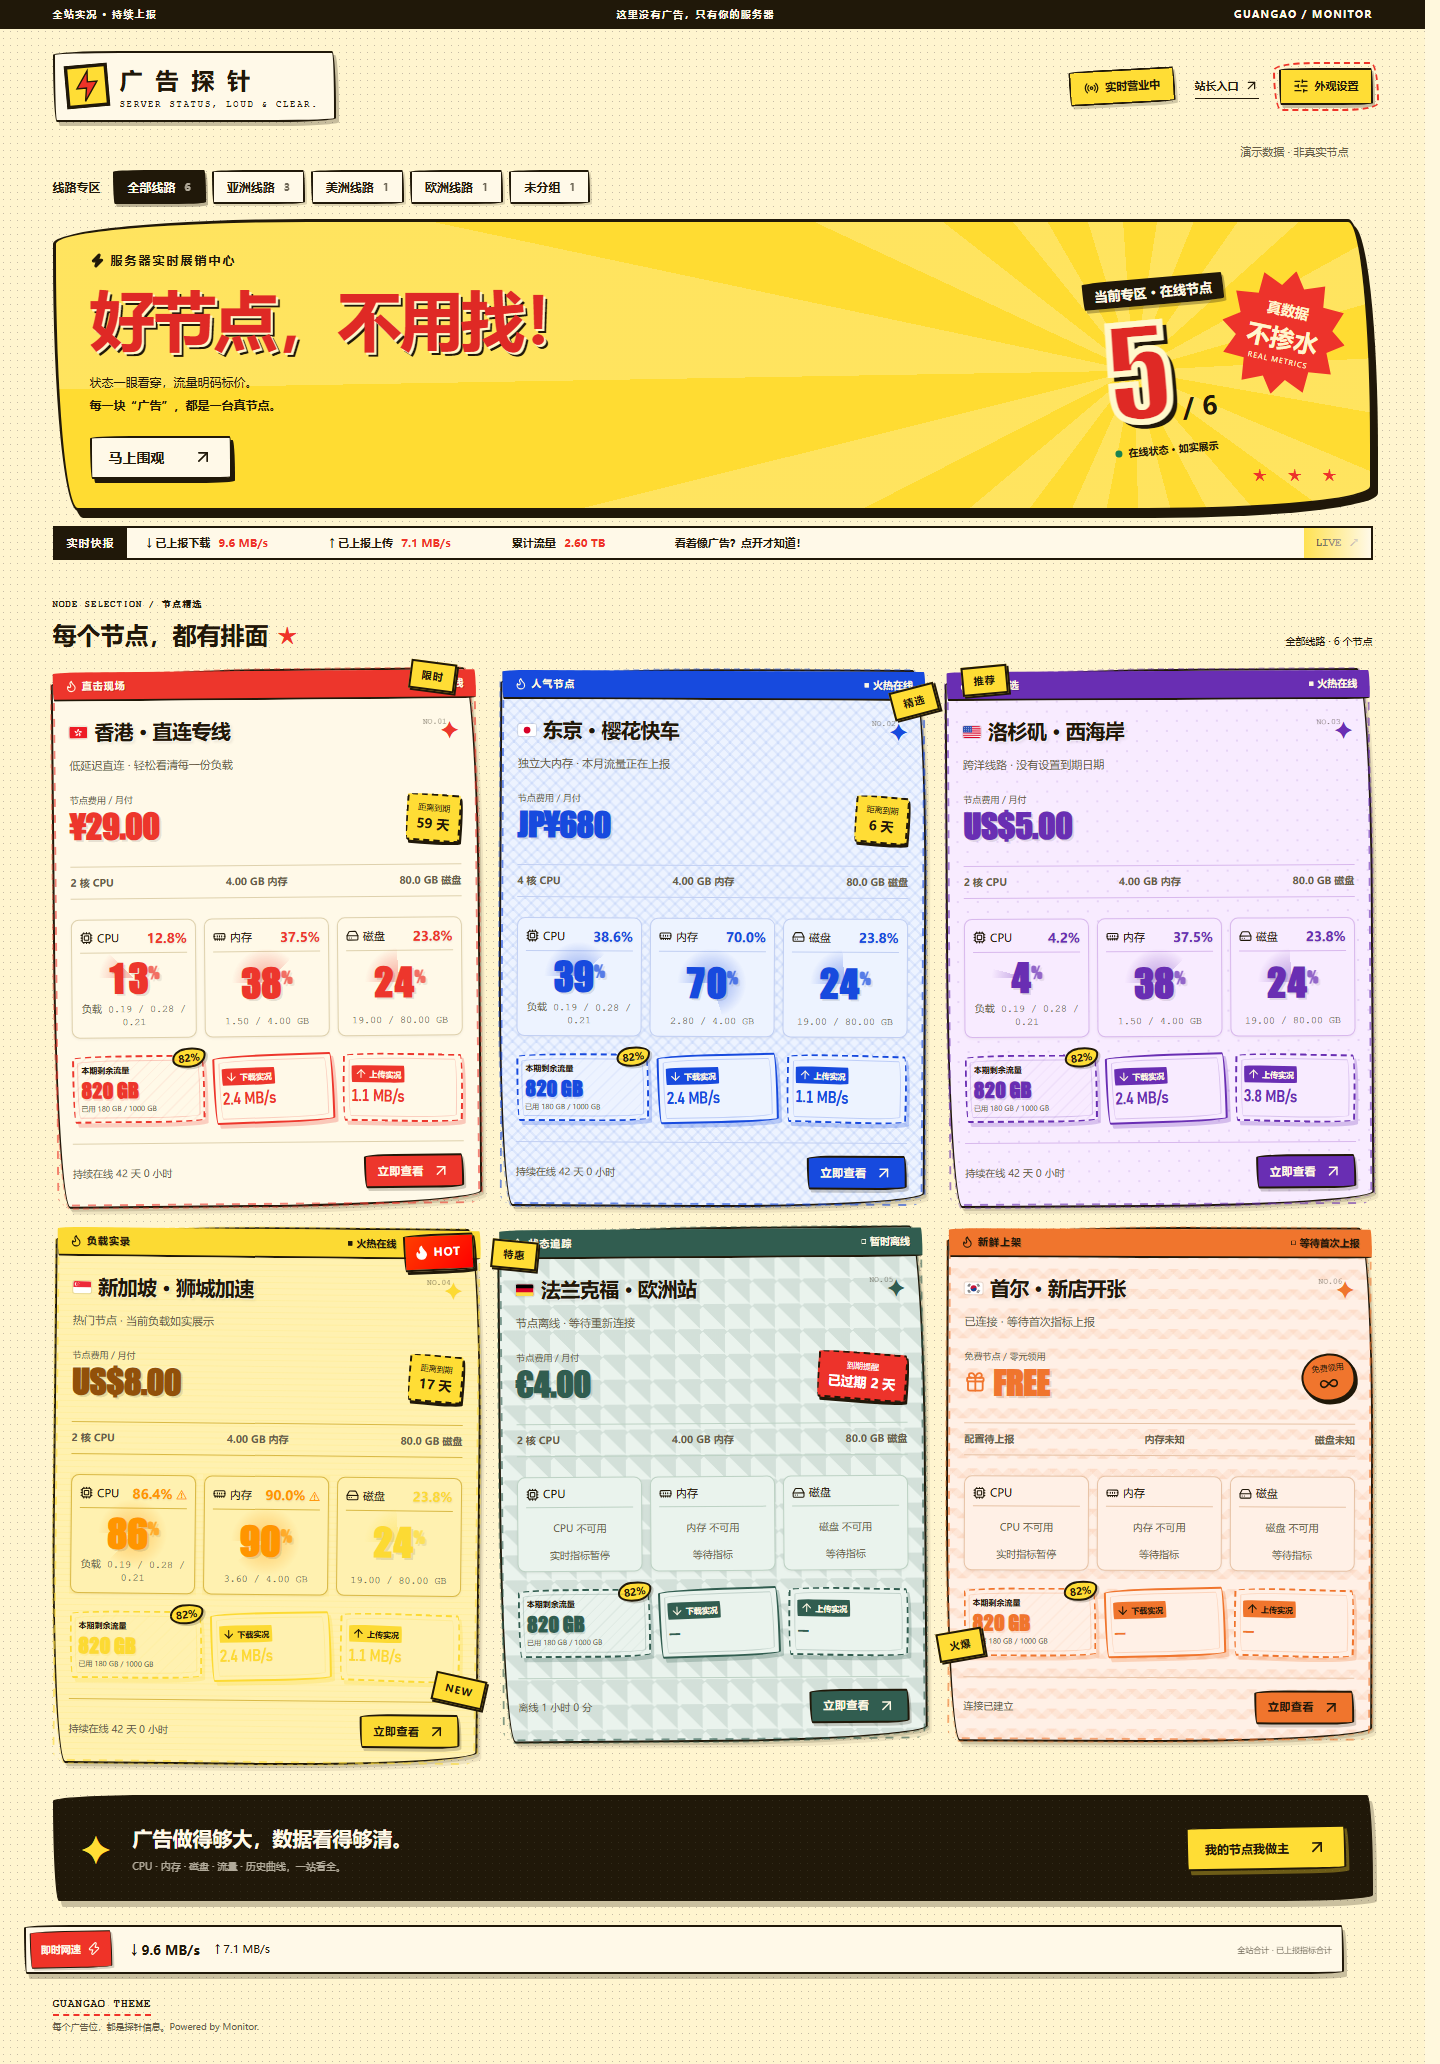
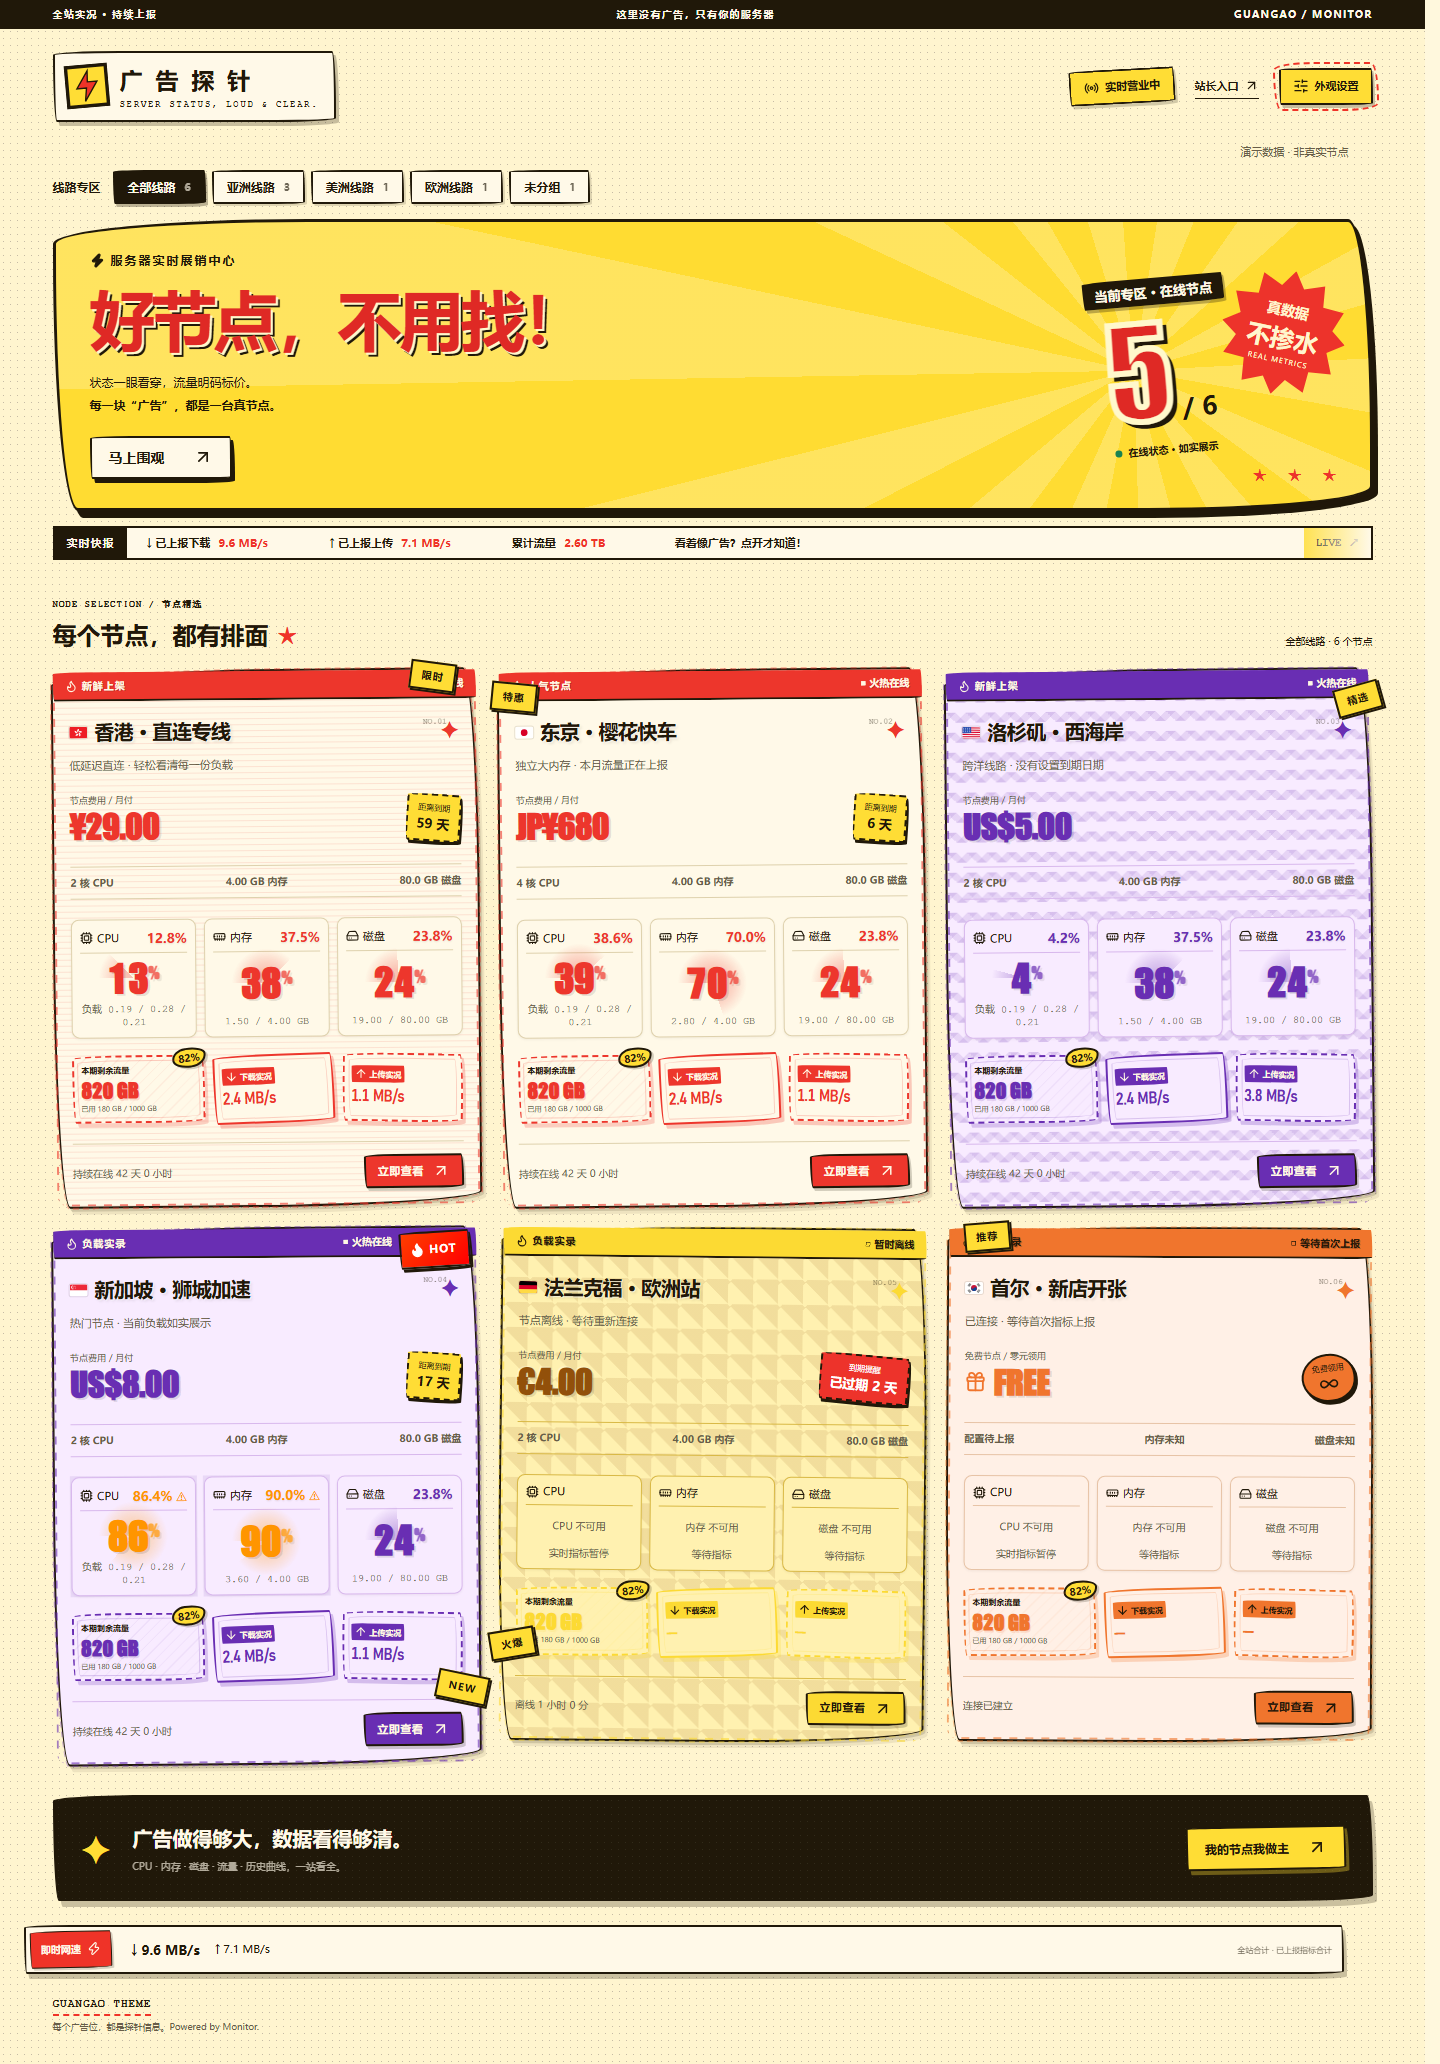
feat: independently randomize stable node card appearances

diff --git a/src/monitor-wall.css b/src/monitor-wall.css
@@ -599,22 +599,22 @@ select:focus-visible {
   align-items: start;
 }
 /* 纸质风格：微小倾斜，像纸片堆叠 */
-.node-grid .node-card:nth-child(6n + 1) {
+.node-grid .node-card.tilt-0 {
   transform: rotate(-0.5deg);
 }
-.node-grid .node-card:nth-child(6n + 2) {
+.node-grid .node-card.tilt-1 {
   transform: rotate(0.3deg);
 }
-.node-grid .node-card:nth-child(6n + 3) {
+.node-grid .node-card.tilt-2 {
   transform: rotate(-0.3deg);
 }
-.node-grid .node-card:nth-child(6n + 4) {
+.node-grid .node-card.tilt-3 {
   transform: rotate(0.6deg);
 }
-.node-grid .node-card:nth-child(6n + 5) {
+.node-grid .node-card.tilt-4 {
   transform: rotate(-0.4deg);
 }
-.node-grid .node-card:nth-child(6n + 6) {
+.node-grid .node-card.tilt-5 {
   transform: rotate(0.2deg);
 }
 .node-card {
@@ -667,37 +667,37 @@ select:focus-visible {
   white-space: nowrap;
   pointer-events: none;
 }
-.node-card.tone-0::after {
+.node-card.sticker-0::after {
   content: "限时";
   top: -8px;
   right: 20px;
   transform: rotate(8deg);
 }
-.node-card.tone-1::after {
+.node-card.sticker-1::after {
   content: "精选";
   top: 15px;
   right: -12px;
   transform: rotate(-15deg);
 }
-.node-card.tone-2::after {
+.node-card.sticker-2::after {
   content: "推荐";
   top: -6px;
   left: 15px;
   transform: rotate(-5deg);
 }
-.node-card.tone-3::after {
+.node-card.sticker-3::after {
   content: "NEW";
   bottom: 60px;
   right: -10px;
   transform: rotate(12deg);
 }
-.node-card.tone-4::after {
+.node-card.sticker-4::after {
   content: "特惠";
   top: 10px;
   left: -8px;
   transform: rotate(6deg);
 }
-.node-card.tone-5::after {
+.node-card.sticker-5::after {
   content: "火爆";
   bottom: 80px;
   left: -10px;
@@ -785,46 +785,19 @@ select:focus-visible {
   --paper: #edf3ff;
   --muted: #dce6ff;
   --border: #c1cff3;
-  background-image:
-    repeating-linear-gradient(
-      45deg,
-      #235dde15 0,
-      #235dde15 2px,
-      transparent 2px,
-      transparent 8px
-    ),
-    repeating-linear-gradient(
-      -45deg,
-      #235dde15 0,
-      #235dde15 2px,
-      transparent 2px,
-      transparent 8px
-    );
-  background-size: 12px 12px;
+
 }
 .monitor-app[data-variant="promo"] .tone-2 {
   --paper: #f8ebff;
   --muted: #ead6fb;
   --border: #d8b8ed;
-  background-image:
-    radial-gradient(circle, #692eb320 1px, transparent 1px),
-    radial-gradient(circle, #692eb320 1px, transparent 1px);
-  background-size: 20px 20px;
-  background-position:
-    0 0,
-    10px 10px;
+
 }
 .monitor-app[data-variant="promo"] .tone-3 {
   --paper: #fff1b0;
   --muted: #ffe58b;
   --border: #d9b946;
-  background-image: repeating-linear-gradient(
-    0deg,
-    #fcda3320 0,
-    #fcda3320 1px,
-    transparent 1px,
-    transparent 6px
-  );
+
 }
 .monitor-app[data-variant="promo"] .tone-3 .offer-price > strong {
   color: #92500a;
@@ -833,22 +806,66 @@ select:focus-visible {
   --paper: #eaf3ed;
   --muted: #dbe9df;
   --border: #bdd2c4;
-  background-image: repeating-conic-gradient(
-    from 45deg at 10% 10%,
-    #315d5020 0deg 90deg,
-    transparent 90deg 180deg
-  );
-  background-size: 25px 25px;
+
 }
 .monitor-app[data-variant="promo"] .tone-5 {
   --paper: #fff0e6;
   --muted: #ffe0cb;
   --border: #e7c3a6;
+
+}
+
+.monitor-app[data-variant="promo"] .node-card.tone-3 { --pattern-ink: #92500a; }
+.node-card.pattern-1 {
   background-image:
-    linear-gradient(135deg, #f0752d15 25%, transparent 25%),
-    linear-gradient(225deg, #f0752d15 25%, transparent 25%),
-    linear-gradient(45deg, #f0752d15 25%, transparent 25%),
-    linear-gradient(315deg, #f0752d15 25%, transparent 25%);
+    repeating-linear-gradient(
+      45deg,
+      color-mix(in srgb, var(--pattern-ink, var(--tone)) 12%, transparent) 0,
+      color-mix(in srgb, var(--pattern-ink, var(--tone)) 12%, transparent) 2px,
+      transparent 2px,
+      transparent 8px
+    ),
+    repeating-linear-gradient(
+      -45deg,
+      color-mix(in srgb, var(--pattern-ink, var(--tone)) 12%, transparent) 0,
+      color-mix(in srgb, var(--pattern-ink, var(--tone)) 12%, transparent) 2px,
+      transparent 2px,
+      transparent 8px
+    );
+  background-size: 12px 12px;
+}
+.node-card.pattern-2 {
+  background-image:
+    radial-gradient(circle, color-mix(in srgb, var(--pattern-ink, var(--tone)) 12%, transparent) 1px, transparent 1px),
+    radial-gradient(circle, color-mix(in srgb, var(--pattern-ink, var(--tone)) 12%, transparent) 1px, transparent 1px);
+  background-size: 20px 20px;
+  background-position:
+    0 0,
+    10px 10px;
+}
+.node-card.pattern-3 {
+  background-image: repeating-linear-gradient(
+    0deg,
+    color-mix(in srgb, var(--pattern-ink, var(--tone)) 12%, transparent) 0,
+    color-mix(in srgb, var(--pattern-ink, var(--tone)) 12%, transparent) 1px,
+    transparent 1px,
+    transparent 6px
+  );
+}
+.node-card.pattern-4 {
+  background-image: repeating-conic-gradient(
+    from 45deg at 10% 10%,
+    color-mix(in srgb, var(--pattern-ink, var(--tone)) 12%, transparent) 0deg 90deg,
+    transparent 90deg 180deg
+  );
+  background-size: 25px 25px;
+}
+.node-card.pattern-5 {
+  background-image:
+    linear-gradient(135deg, color-mix(in srgb, var(--pattern-ink, var(--tone)) 12%, transparent) 25%, transparent 25%),
+    linear-gradient(225deg, color-mix(in srgb, var(--pattern-ink, var(--tone)) 12%, transparent) 25%, transparent 25%),
+    linear-gradient(45deg, color-mix(in srgb, var(--pattern-ink, var(--tone)) 12%, transparent) 25%, transparent 25%),
+    linear-gradient(315deg, color-mix(in srgb, var(--pattern-ink, var(--tone)) 12%, transparent) 25%, transparent 25%);
   background-size: 20px 20px;
   background-position:
     0 0,

diff --git a/src/components/MonitorCard.tsx b/src/components/MonitorCard.tsx
@@ -1,3 +1,5 @@
+import { useState } from "react";
+import { appearanceFor } from "@/lib/card-appearance";
 import { observeMotion } from "@/lib/motion-visibility";
 import {
   ArrowUpRight,
@@ -104,11 +106,9 @@ function Resource({
 
 export function MonitorCard({
   node,
-  index,
   onOpen,
 }: {
   node: Node;
-  index: number;
   onOpen: (id: number) => void;
 }) {
   const m = node.online ? node.metrics : null;
@@ -137,14 +137,15 @@ export function MonitorCard({
     "状态追踪",
     "新鲜上架",
   ];
-  const tone = index % 6;
+  const [appearance] = useState(() => appearanceFor(node.id));
+  const { tone, pattern, sticker, tilt, label } = appearance;
   const isHot =
     node.online && m && (m.cpu > 70 || percent(m.mem_used, m.mem_total) > 80);
 
   return (
     <article
       ref={observeMotion}
-      className={`node-card tone-${tone} ${!node.online ? "is-offline" : ""} ${isHot ? "is-hot" : ""}`}
+      className={`node-card tone-${tone} pattern-${pattern} sticker-${sticker} tilt-${tilt} ${!node.online ? "is-offline" : ""} ${isHot ? "is-hot" : ""}`}
       aria-label={node.name}
     >
       <div className="node-border-light" aria-hidden="true" />
@@ -157,7 +158,7 @@ export function MonitorCard({
       <div className="card-topline">
         <span>
           <Flame size={13} />
-          {labels[tone]}
+          {labels[label]}
         </span>
         <span className={`status-tag ${m ? "is-live" : ""}`}>{state}</span>
       </div>

diff --git a/tests/card-appearance.spec.ts b/tests/card-appearance.spec.ts
@@ -1,0 +1,37 @@
+import { test, expect } from "@playwright/test";
+import { demoNodes } from "../dev/fixtures";
+test("random card styling stays with the node across live updates and filtering", async ({
+  page,
+}) => {
+  let socket: Parameters<Parameters<typeof page.routeWebSocket>[1]>[0];
+  await page.routeWebSocket("**/api/ws*", (s) => {
+    socket = s;
+  });
+  await page.goto("/");
+  await expect(page.getByRole("article")).toHaveCount(6);
+  const card = page.getByRole("article", { name: demoNodes[2].name });
+  const appearance = () =>
+    card.evaluate((el) =>
+      [...el.classList]
+        .filter((name) => /^(tone|pattern|sticker|tilt)-/.test(name))
+        .join(" "),
+    );
+  const original = await appearance();
+  expect(original.split(" ")).toHaveLength(4);
+  socket!.send(
+    JSON.stringify({
+      nodes: demoNodes.map((node) =>
+        node.id === 3
+          ? { ...node, metrics: { ...node.metrics, cpu: 22.5 } }
+          : node,
+      ),
+    }),
+  );
+  await expect(card.getByText("22.5%", { exact: true })).toBeVisible();
+  expect(await appearance()).toBe(original);
+  await page.getByRole("button", { name: "欧洲线路" }).click();
+  await expect(card).toHaveCount(0);
+  await page.getByRole("button", { name: "美洲线路" }).click();
+  await expect(card).toBeVisible();
+  expect(await appearance()).toBe(original);
+});

diff --git a/src/lib/card-appearance.test.ts b/src/lib/card-appearance.test.ts
@@ -1,0 +1,22 @@
+import assert from "node:assert/strict";
+import { createCardAppearance, appearanceFor } from "./card-appearance.ts";
+const values = [0.99, 0.01, 0.51, 0.2, 0.7];
+let calls = 0;
+assert.deepEqual(
+  createCardAppearance(() => values[calls++]),
+  { tone: 5, pattern: 0, sticker: 3, tilt: 1, label: 4 },
+);
+assert.equal(calls, 5, "Appearance fields need independent draws");
+assert.strictEqual(
+  appearanceFor(12),
+  appearanceFor(12),
+  "Remounts reuse their node appearance",
+);
+assert.notStrictEqual(appearanceFor(12), appearanceFor(13));
+for (const value of Object.values(createCardAppearance(() => 0)))
+  assert.equal(value, 0);
+for (const value of Object.values(createCardAppearance(() => 0.99999)))
+  assert.equal(value, 5);
+console.log(
+  "Card appearance uses independent random choices and remains stable per node",
+);

diff --git a/src/lib/card-appearance.ts b/src/lib/card-appearance.ts
@@ -1,0 +1,28 @@
+export type CardAppearance = {
+  tone: number;
+  pattern: number;
+  sticker: number;
+  tilt: number;
+  label: number;
+};
+export function createCardAppearance(random = Math.random): CardAppearance {
+  const pick = () => Math.floor(random() * 6);
+  return {
+    tone: pick(),
+    pattern: pick(),
+    sticker: pick(),
+    tilt: pick(),
+    label: pick(),
+  };
+}
+// Per-page allocation: filtering/remounting a card reuses its appearance;
+// a fresh page load creates a new wall. No visitor preferences are changed.
+const appearances = new Map<number, CardAppearance>();
+export function appearanceFor(nodeId: number): CardAppearance {
+  let appearance = appearances.get(nodeId);
+  if (!appearance) {
+    appearance = createCardAppearance();
+    appearances.set(nodeId, appearance);
+  }
+  return appearance;
+}

diff --git a/src/App.tsx b/src/App.tsx
@@ -465,13 +465,8 @@ export default function App() {
               </div>
             ) : (
               <div className="node-grid">
-                {shown.map((node, index) => (
-                  <MonitorCard
-                    key={node.id}
-                    node={node}
-                    index={index}
-                    onOpen={go}
-                  />
+                {shown.map((node) => (
+                  <MonitorCard key={node.id} node={node} onOpen={go} />
                 ))}
               </div>
             )}

diff --git a/README.md b/README.md
@@ -27,6 +27,7 @@
 
 ## 功能
 
+- 节点卡片的颜色、底纹、贴纸与倾斜分别随机搭配；当前页面内保持稳定，刷新后重新生成。
 - 右上角外观设置：三种广告墙皮肤、手绘选择菜单、动效与边框灯开关。
 - 免费节点专属 FREE 礼物价格标志和期限贴纸，区分到期、过期与未设到期日期。
 - CPU、内存、硬盘、本月剩余流量、上传与下载速度。
